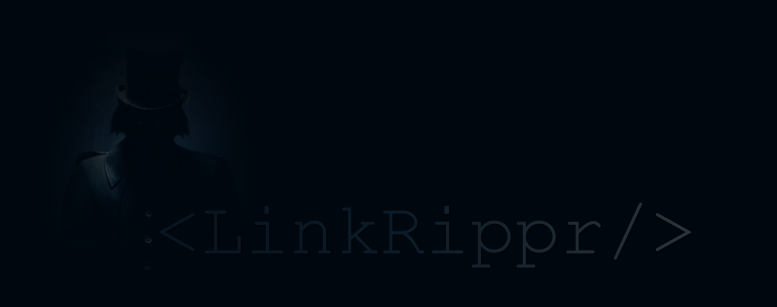
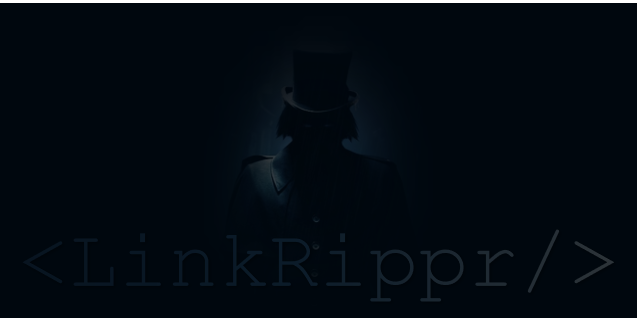
finalised gui - fixed header and footer and created scrollable gui

diff --git a/css/link_rippr.css b/css/link_rippr.css
@@ -1,14 +1,55 @@
 body{
     background-color: #00070E;
 }
-img.banner{
-    width: 40%;
+a{
+    color: #1F4D77;
 }
-div.drop_zone{
+
+.header{
+    position: fixed;
+    top: 0px;
+    background-color: #00070E;
+    width: 100%;
+    left: 0px;
+    right: 0px;
+}
+.content{
+    padding-left: 5%;
+    padding-right: 5%;
+}
+#chatter_box{
+    background-color: #0A1926;
+    width: 100%;
+    color: #909EAA;
+    alignment: center;
+    font-family: "Courier New";
+    font-size: small;
+    padding-top: 10px;
+    padding-bottom: 10px;
+}
+#results{
     background-color: #00070E;
     color: #293137;
     font-family: "Courier New";
-    font-size: large;
-    padding-left: 5%;
-    padding-top: 5%;
+    font-size: medium;
+}
+#author{
+    height: 5%;
+    width: 100%;
+    color: #909EAA;
+    alignment: center;
+    font-family: "Courier New";
+    font-size: x-small;
+}
+#footer{
+    position: fixed;
+    bottom: 0px;
+    left: 0px;
+    right: 0px;
+    background-color: #0A1926;
+    width: 100%;
+    color: #909EAA;
+    alignment: center;
+    font-family: "Courier New";
+    font-size: small;
 }

diff --git a/js/util.js b/js/util.js
@@ -1,0 +1,17 @@
+function padContent(){
+    let headerHeight = document.getElementById("banner").clientHeight +
+        document.getElementById("chatter_box").clientHeight;
+    let footerHeight = document.getElementById("footer").clientHeight;
+    let content = document.getElementById("drop_zone");
+
+    content.setAttribute("style", "padding-top: " + (headerHeight*1.05) + "px; padding-bottom: " + (footerHeight*1.15) + "px;");
+}
+
+function addTestText(){
+    let loremIpsum = "Lorem ipsum dolor sit amet, consectetur adipiscing elit, sed do eiusmod tempor incididunt ut labore et dolore magna aliqua. Ut enim ad minim veniam, quis nostrud exercitation ullamco laboris nisi ut aliquip ex ea commodo consequat. Duis aute irure dolor in reprehenderit in voluptate velit esse cillum dolore eu fugiat nulla pariatur. Excepteur sint occaecat cupidatat non proident, sunt in culpa qui officia deserunt mollit anim id est laborum.";
+    let results = document.getElementById("results");
+    for(let i = 0; i<5; i++){
+        loremIpsum += loremIpsum;
+    }
+    results.innerText = loremIpsum;
+}

diff --git a/LinkRippr.html b/LinkRippr.html
@@ -6,10 +6,27 @@
     <script src="js/link_rippr.js"></script>
     <script src="js/util.js"></script>
 </head>
+
 <body>
-<img src="img/banner_short.png" class="banner"/>
-<div class="drop_zone" id="drop_zone">
-    <p>< DROP YOUR DOM HERE ></p>
+
+<div class="header">
+    <img id="banner" src="img/banner.png" width="100%"/>
+    <p id="chatter_box" align="center">Drop a HTML or text file below</p>
 </div>
+<div class="content" id="drop_zone" draggable="true">
+    <p id="results"></p>
+</div>
+
+<div id="footer">
+    <p id="author" align="center">Samuel Brookes : <a href="https://github.com/sjb-ch1mp/LinkRippr" target="_blank">github.com/sjb-ch1mp/LinkRippr</a> : May 2020</p>
+</div>
+
 </body>
+
+<script lang="javascript">
+    addTestText();
+    window.onload = function(){padContent()};
+    window.onresize = function(){padContent()};
+</script>
+
 </html>
